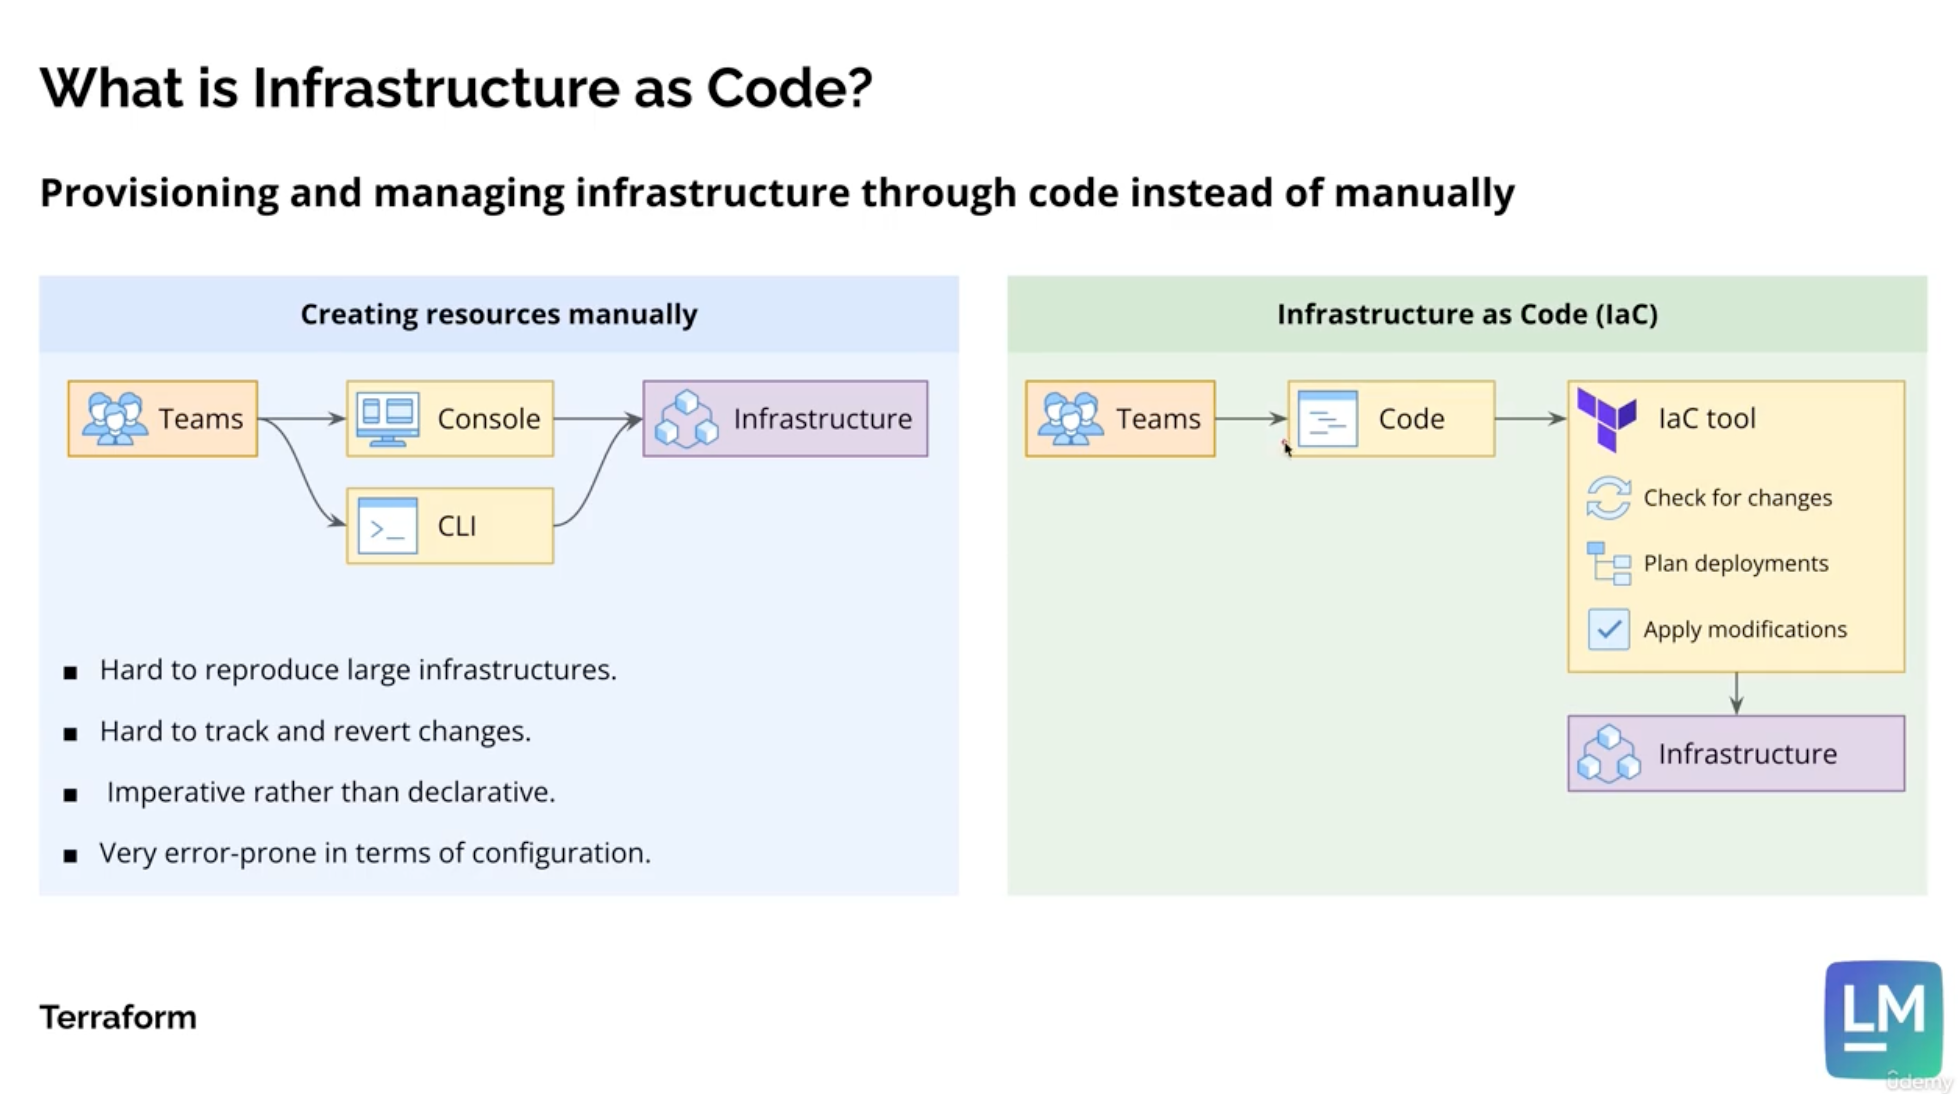
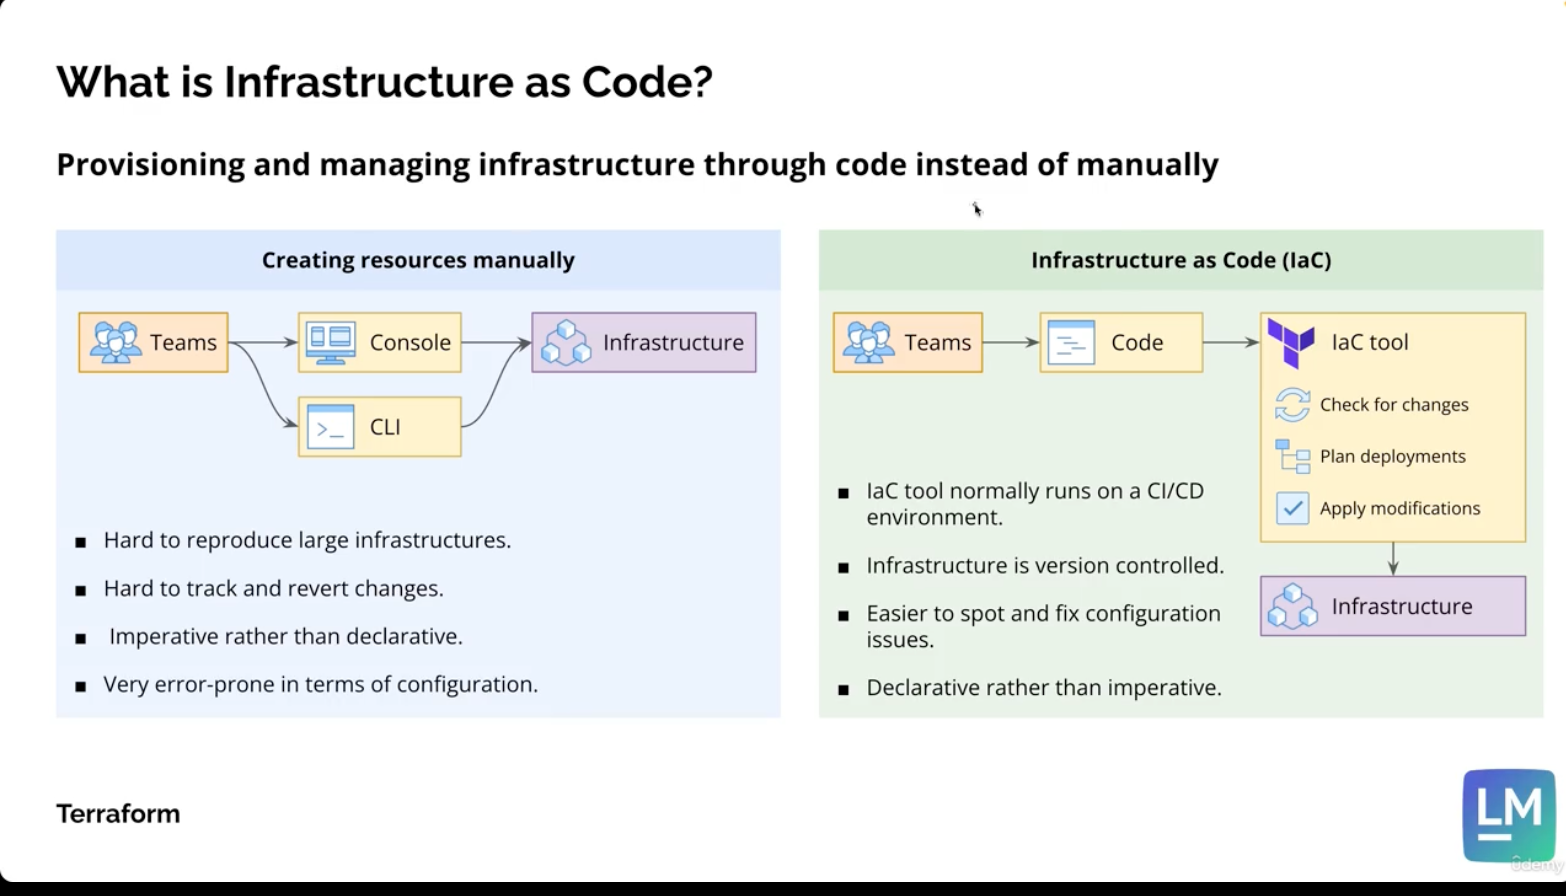
update image

diff --git a/practice-terraform/notes/1-note-iac.md b/practice-terraform/notes/1-note-iac.md
@@ -10,6 +10,12 @@
   * Hard to track and revert changes. 
   * Imperative rather than declarative. 
   * Very error-prone in terms of configuration. 
+  
+- **Terraform Benefits**
+  * IaC tools normally runs on a CI/CD environment. 
+  * Infrastructure is version controlled. 
+  * Easier to spot and fix configuration issues. 
+  * Declarative rather than imperative. 
 
 
 
